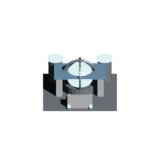
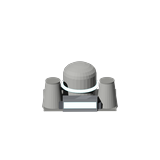
THEATER: production-quality Fusion Reactor + Research Lab building bodies
Continues the structure-art pass (after bank/alloyex). Both were muddy/flat
blobs; replace with bespoke Blender renders on the dimetric structure camera:

  * fusionbody — a domed concrete reactor containment with an emissive cyan
                 tokamak ring + turbine-hall windows, flanked by two cooling
                 towers. Reads as "advanced power" at a glance.
  * rlabbody   — a modern research complex: white multi-storey block with blue
                 glass window bands, a big rooftop parabolic dish (the research
                 read), an annex wing and a comms mast.

First use of emissive (Principled BSDF Emission) materials for the reactor glow
and lab status windows. Pure asset swap (both already wired to these Image names
+ idle/make sequences) downscaled to each existing sprite's footprint/grounding
so in-world size is unchanged. render_theater_buildings.py extended with
build_fusion/build_rlab (+ _sphere/_torus/_frustum/rotatable helpers).

Verified: check-yaml 0 errors, clean boot (process survives 30s+, no exception
log; new sprites load). In-game scale/grounding wants a GUI eye. thcombody is
already a solid render of the live command-post model, so it stays.

Changed region(s): [[0.25, 0.3125, 0.75, 0.7188]]

diff --git a/design/art/render_theater_buildings.py b/design/art/render_theater_buildings.py
@@ -31,8 +31,11 @@
 #       im = im.resize((nw,nh), Image.LANCZOS)
 #       cv = Image.new('RGBA',(canvas,canvas),(0,0,0,0)); cv.paste(im,(cx-nw//2, baseline-nh), im)
 #       cv.save(out)
-#   ground('/tmp/bank_raw.png',    'mods/theater/bits/bankbody.png',    base_w=36, baseline=47)
-#   ground('/tmp/alloyex_raw.png', 'mods/theater/bits/alloyexbody.png', base_w=42, baseline=48)
+#   # base_w/baseline/cx per body match each existing sprite's footprint + grounding (drop-in):
+#   ground('/tmp/bank_raw.png',    'mods/theater/bits/bankbody.png',    base_w=36, baseline=47)            # 1x1, 64 canvas
+#   ground('/tmp/alloyex_raw.png', 'mods/theater/bits/alloyexbody.png', base_w=42, baseline=48)            # 1x1, 64 canvas
+#   ground('/tmp/fusion_raw.png',  'mods/theater/bits/fusionbody.png',  base_w=76, baseline=112, canvas=160, cx=80)  # 3x3
+#   ground('/tmp/rlab_raw.png',    'mods/theater/bits/rlabbody.png',    base_w=54, baseline=96,  canvas=128, cx=64)  # 2x3
 #   PY
 # The sequence YAML (mods/theater/sequences/theater.yaml) already keys idle/make -> <body>.png as a
 # single frame (no FrameSize/Facings), so the grounded PNG is a drop-in.
@@ -42,14 +45,18 @@ import bpy, math, bmesh
 RES = 512
 
 
-def node_mat(name, rgb, rough=0.6, metal=0.0):
-    """Principled-BSDF material — required for EEVEE-Next colour at render time."""
+def node_mat(name, rgb, rough=0.6, metal=0.0, emit=None, estr=0.0):
+    """Principled-BSDF material — required for EEVEE-Next colour at render time.
+    Pass emit=(r,g,b)+estr for an emissive glow (reactor core, lab windows)."""
     m = bpy.data.materials.get(name) or bpy.data.materials.new(name)
     m.use_nodes = True
     b = next(n for n in m.node_tree.nodes if n.type == 'BSDF_PRINCIPLED')
     b.inputs['Base Color'].default_value = (*rgb, 1.0)
     b.inputs['Roughness'].default_value = rough
     b.inputs['Metallic'].default_value = metal
+    if emit is not None:
+        b.inputs['Emission Color'].default_value = (*emit, 1.0)
+        b.inputs['Emission Strength'].default_value = estr
     return m
 
 
@@ -91,9 +98,10 @@ def ensure_rig():
 _made = []
 
 
-def _box(loc, sc, mat):
+def _box(loc, sc, mat, rot=(0, 0, 0)):
     bpy.ops.mesh.primitive_cube_add(size=1, location=loc)
     o = bpy.context.active_object; o.name = 'GEN_box'; o.scale = sc
+    o.rotation_euler = tuple(math.radians(a) for a in rot)
     o.data.materials.clear(); o.data.materials.append(mat); _made.append(o); return o
 
 
@@ -104,9 +112,22 @@ def _cyl(loc, r, h, mat, v=20, rot=(0, 0, 0)):
     o.data.materials.clear(); o.data.materials.append(mat); _made.append(o); return o
 
 
-def _cone(loc, r, h, mat, v=20):
-    bpy.ops.mesh.primitive_cone_add(vertices=v, radius1=r, radius2=0, depth=h, location=loc)
+def _cone(loc, r, h, mat, v=20, r2=0.0, rot=(0, 0, 0)):
+    bpy.ops.mesh.primitive_cone_add(vertices=v, radius1=r, radius2=r2, depth=h, location=loc)
     o = bpy.context.active_object; o.name = 'GEN_cone'
+    o.rotation_euler = tuple(math.radians(a) for a in rot)
+    o.data.materials.clear(); o.data.materials.append(mat); _made.append(o); return o
+
+
+def _sphere(loc, r, mat, sx=1.0, sy=1.0, sz=1.0, seg=24, ring=12):
+    bpy.ops.mesh.primitive_uv_sphere_add(radius=r, location=loc, segments=seg, ring_count=ring)
+    o = bpy.context.active_object; o.name = 'GEN_sph'; o.scale = (sx, sy, sz)
+    o.data.materials.clear(); o.data.materials.append(mat); _made.append(o); return o
+
+
+def _torus(loc, major, minor, mat):
+    bpy.ops.mesh.primitive_torus_add(location=loc, major_radius=major, minor_radius=minor)
+    o = bpy.context.active_object; o.name = 'GEN_tor'
     o.data.materials.clear(); o.data.materials.append(mat); _made.append(o); return o
 
 
@@ -176,7 +197,61 @@ def build_alloyex():
     return 14.0
 
 
-BODIES = {'bank': build_bank, 'alloyex': build_alloyex}
+def build_fusion():
+    """Advanced reactor (3x3): domed concrete containment, emissive cyan tokamak ring + turbine
+    windows, two flanking cooling towers, turbine hall. Reads as 'power' at a glance."""
+    concrete = node_mat('GEN_concrete', (0.50, 0.50, 0.48), 0.85)
+    concrete_d = node_mat('GEN_concrete_d', (0.34, 0.34, 0.32), 0.85)
+    steel = node_mat('GEN_steel', (0.40, 0.42, 0.45), 0.5, 0.3)
+    glow = node_mat('GEN_glow', (0.10, 0.55, 0.75), 0.3, 0.0, emit=(0.15, 0.85, 1.0), estr=6.0)
+    dark = node_mat('GEN_dark', (0.14, 0.15, 0.17), 0.4)
+    _box((0, 0.3, 0.2), (13.5, 9.0, 0.4), concrete_d)
+    _cyl((0, 1.6, 2.7), 3.1, 5.0, concrete, 28)
+    _sphere((0, 1.6, 5.2), 3.1, concrete, sz=0.62, seg=32, ring=10)        # dome
+    _torus((0, 1.6, 2.9), 3.25, 0.28, glow)                                # glowing tokamak ring
+    _sphere((0, 1.6, 6.4), 0.7, glow, seg=16, ring=8)                      # core cap accent
+    for x in (-5.0, 5.0):
+        _cone((x, -2.0, 2.6), 2.0, 5.2, concrete, 28, r2=1.35)             # cooling tower
+        _cyl((x, -2.0, 5.25), 1.4, 0.25, concrete_d, 28)
+    _box((0, -3.6, 1.3), (6.4, 1.6, 2.6), steel)                           # turbine hall
+    _box((0, -4.42, 1.35), (6.0, 0.15, 1.2), glow)                         # window strip
+    _box((-3.4, -3.6, 0.8), (1.0, 1.0, 1.6), dark)
+    _box((3.4, -3.6, 0.8), (1.0, 1.0, 1.6), dark)
+    _cyl((-2.6, 1.6, 2.0), 0.3, 3.0, steel, rot=(0, 90, 0))
+    return 17.0
+
+
+def build_rlab():
+    """Modern research complex (2x3): white multi-storey block with blue glass window bands, a big
+    rooftop parabolic dish (the 'research' read), an annex wing, and a comms mast."""
+    white = node_mat('GEN_white', (0.68, 0.69, 0.70), 0.55)
+    white_d = node_mat('GEN_white_d', (0.50, 0.51, 0.52), 0.6)
+    steel = node_mat('GEN_steel2', (0.40, 0.42, 0.45), 0.4, 0.4)
+    glass = node_mat('GEN_glass', (0.13, 0.24, 0.40), 0.12, 0.2)
+    glow = node_mat('GEN_glow2', (0.10, 0.45, 0.65), 0.2, 0.0, emit=(0.15, 0.70, 0.95), estr=3.0)
+    dishw = node_mat('GEN_dishw', (0.80, 0.81, 0.82), 0.5)
+    dishd = node_mat('GEN_dishd', (0.30, 0.32, 0.35), 0.4)
+    _box((0, 0.4, 0.15), (9.0, 7.0, 0.3), steel)
+    _box((-1.2, 1.0, 2.7), (4.8, 4.4, 5.2), white)
+    _box((-1.2, 1.0, 5.35), (4.9, 4.5, 0.4), white_d)
+    for z in (1.5, 2.9, 4.3):
+        _box((-1.2, -1.25, z), (4.2, 0.12, 0.62), glass)
+    _box((-1.2, -1.25, 2.9), (0.8, 0.16, 0.5), glow)
+    _box((3.1, 0.4, 1.9), (2.6, 3.8, 3.6), white)
+    for z in (1.4, 2.6):
+        _box((3.1, -1.55, z), (2.0, 0.12, 0.5), glass)
+    _box((-1.2, -2.4, 1.2), (3.4, 1.4, 2.2), glass)
+    _box((-1.2, -2.4, 2.45), (3.6, 1.6, 0.22), white_d)
+    _cyl((-1.2, 1.6, 5.9), 0.4, 0.8, steel)                       # dish mount
+    _cyl((-1.2, 1.0, 6.9), 1.7, 0.18, dishw, 24, rot=(-58, 0, 0))  # dish face
+    _cyl((-1.2, 0.78, 7.05), 1.25, 0.12, dishd, 24, rot=(-58, 0, 0))  # concave hint
+    _cyl((-1.2, 0.2, 7.5), 0.07, 1.6, steel, rot=(-58, 0, 0))     # feed arm
+    _box((-1.2, -0.05, 8.1), (0.18, 0.18, 0.18), steel)           # feed
+    _cyl((3.1, 1.6, 4.4), 0.07, 2.2, steel)                       # comms mast
+    return 14.0
+
+
+BODIES = {'bank': build_bank, 'alloyex': build_alloyex, 'fusion': build_fusion, 'rlab': build_rlab}
 
 
 def render_body(name, builder, cam):
